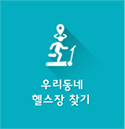
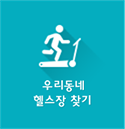
강윤해 - aside 메뉴 아이콘 수정, header slidedown 메뉴 위치 수정

Changed region(s): [[0.312, 0.186, 0.648, 0.5581], [0.24, 0.5891, 0.744, 0.8372]]

diff --git a/common/css/common.css b/common/css/common.css
@@ -158,10 +158,10 @@ header {
     position: absolute;
 }
 #community_slide {
-    right: 765px;
+    right: 565px;
 }
 #info_slide {
-    right: 625px;
+    right: 425px;
 }
 /* aside */
 #aside_menu {
